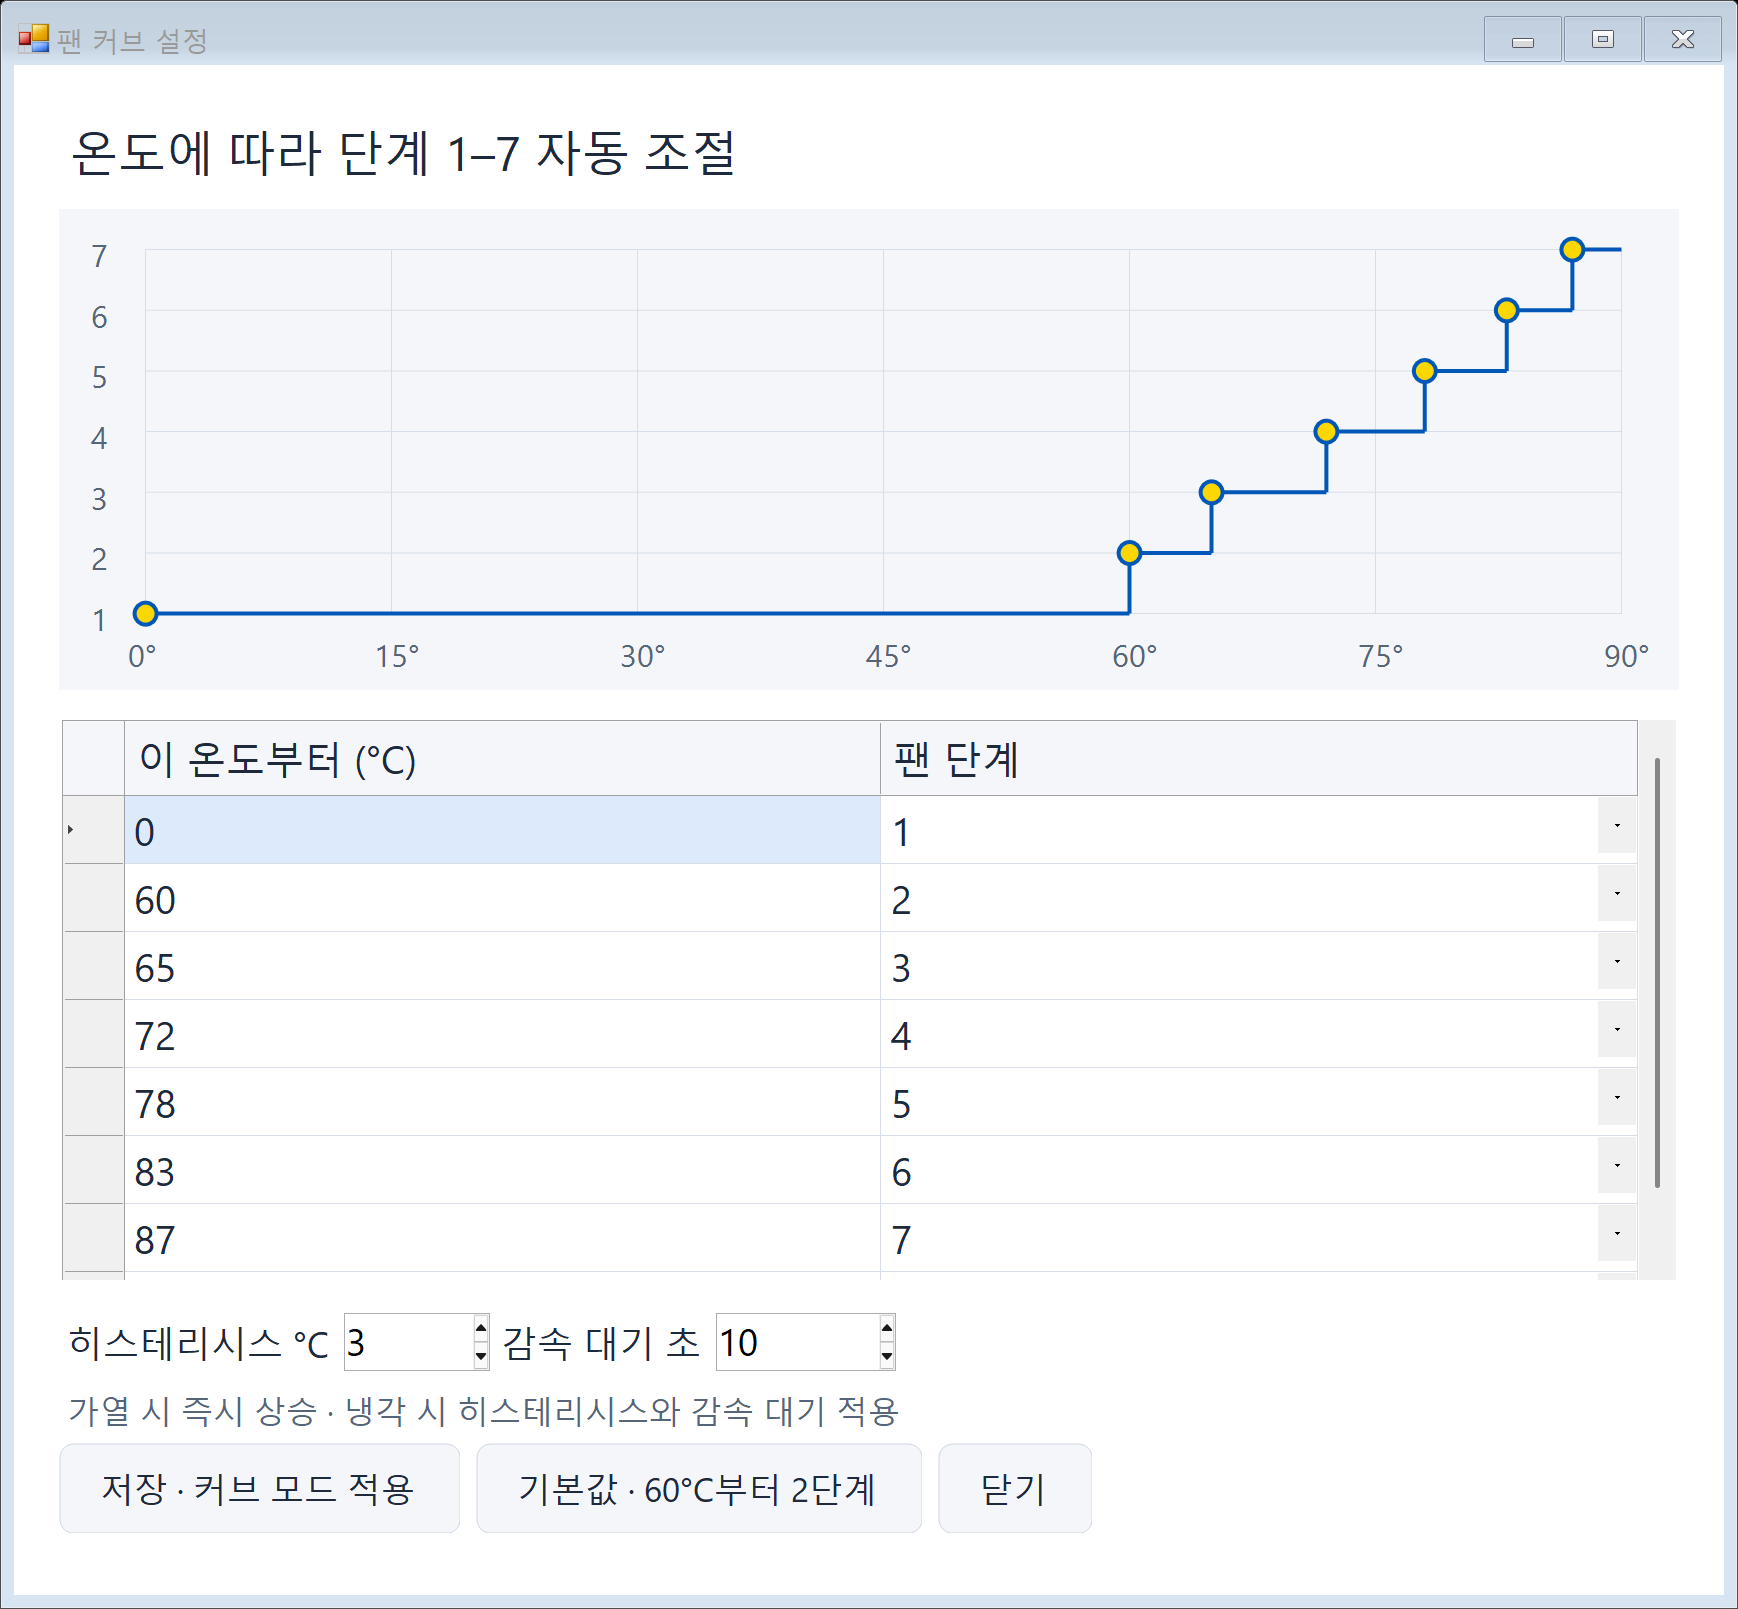
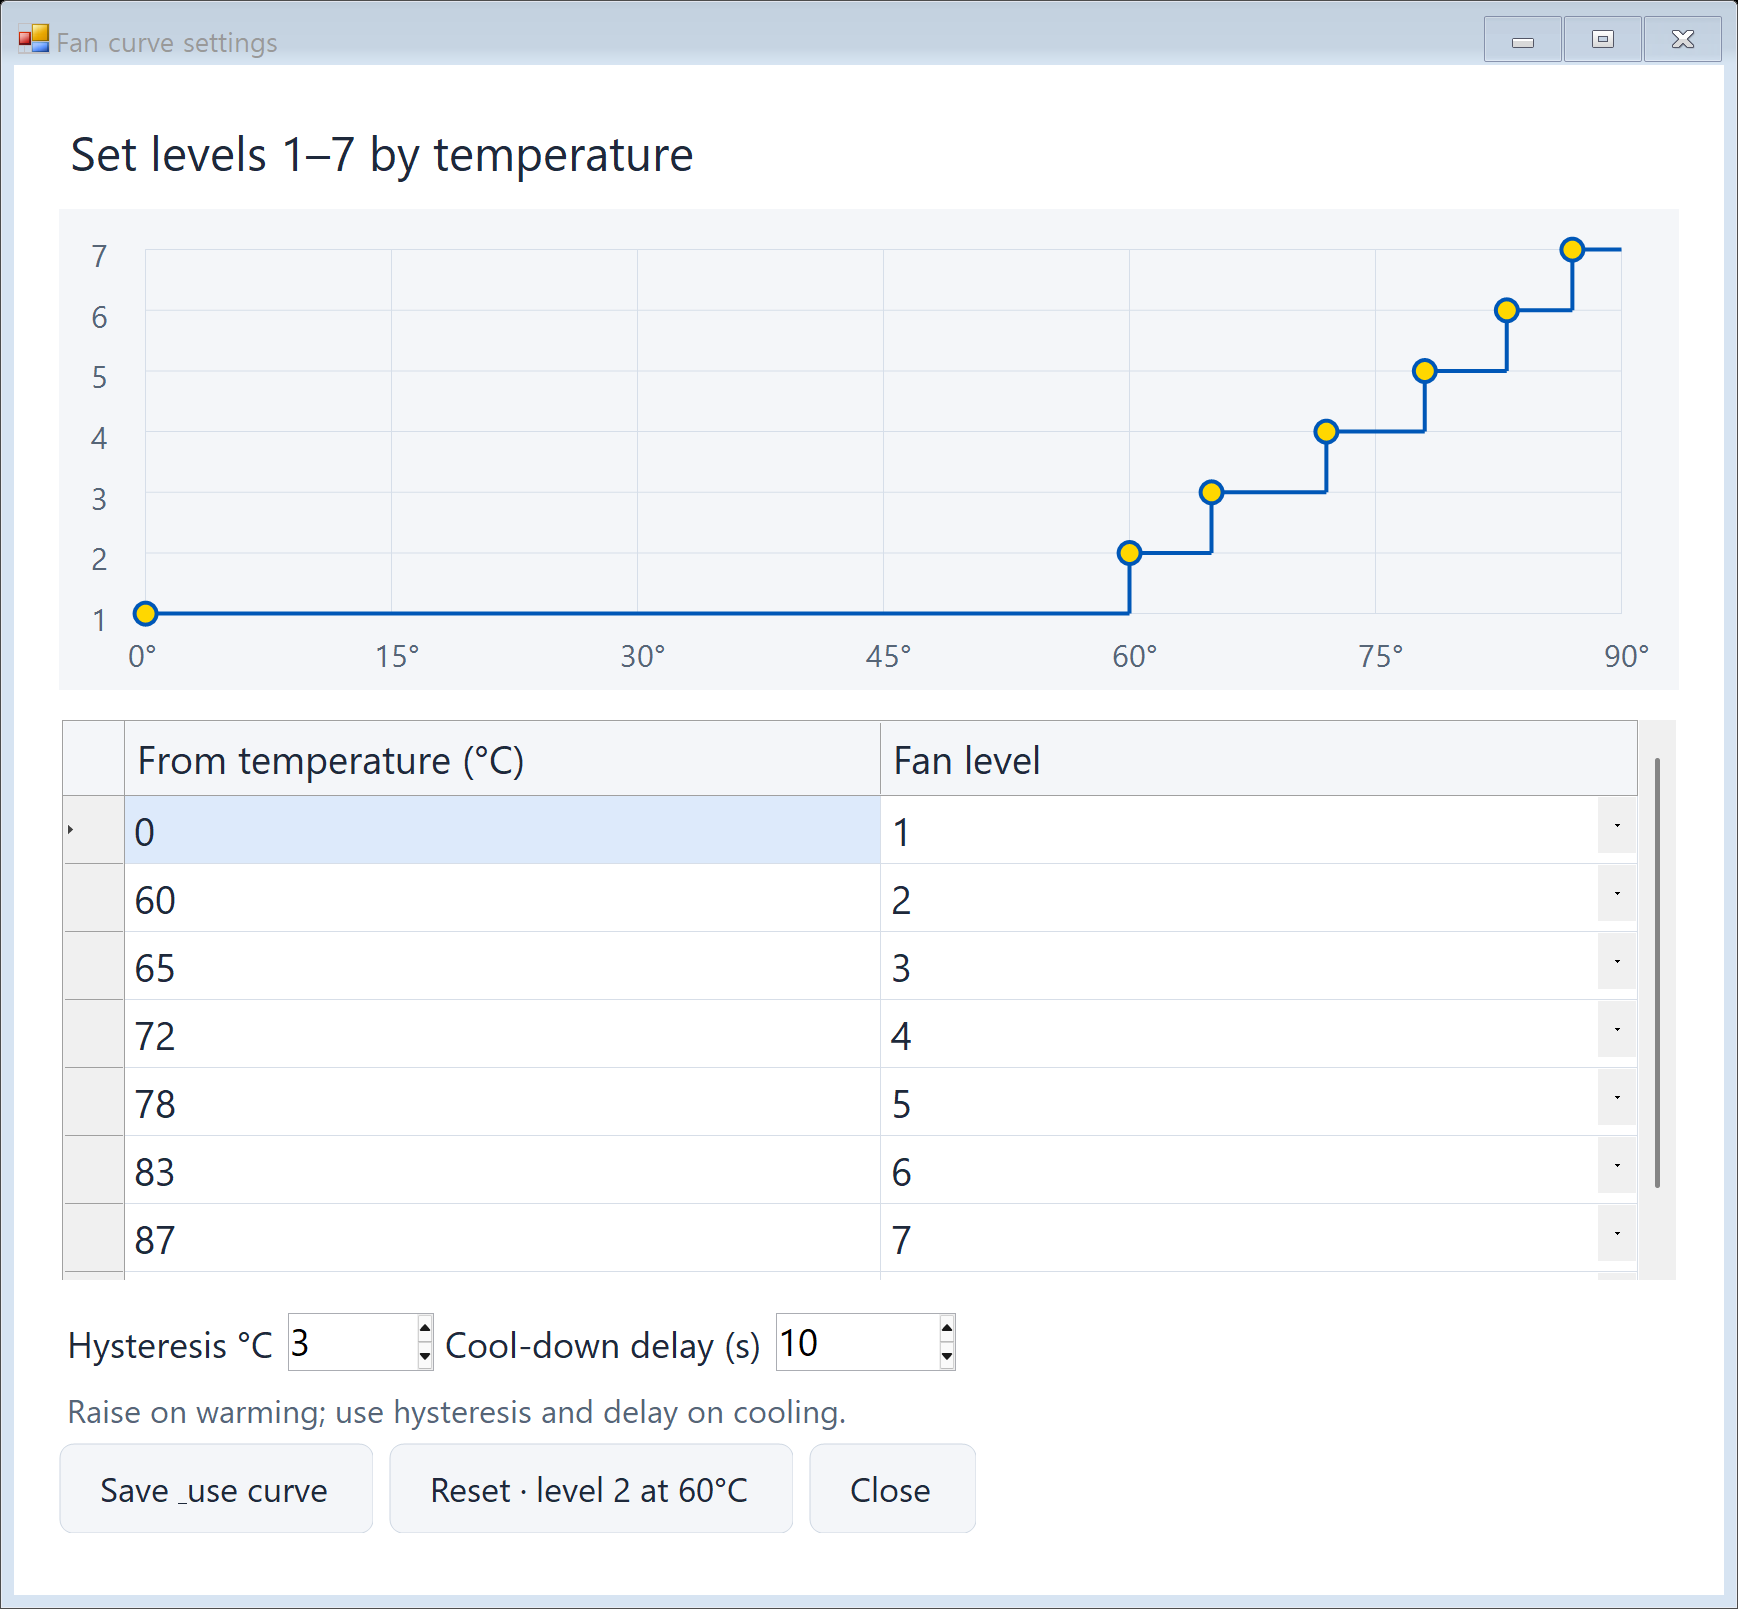
Update multilingual previews and corner validation

diff --git a/docs/VALIDATION.md b/docs/VALIDATION.md
@@ -49,3 +49,11 @@ The title bar now includes SFE16-43. The redundant dashboard heading/stripe was 
 Temperature, levels and both RPMs are now acquired together every approximately 10 seconds, and each successful sample is logged and published to the UI. Mode requests wake the worker immediately. Heartbeats continue during idle waits without EC reads; the 8-second watchdog threshold is unchanged. The 90 C thermal fallback is now evaluated at the 10-second sample cadence, rather than the previous 2-second cadence.
 
 Render checks passed for four visible STATUS lines, a single-line temperature and responsive shrinking. Fake-controller tests include an assertion that an idle controller does not poll temperature again within 2.2 seconds. A short live check after replacement recorded five fresh STATUS samples with timestamp gaps 10/10/9/10 seconds and no fallback, watchdog or critical event in that interval. This verifies coexistence of the 10-second cadence and the watchdog over that short interval; it does not establish long-term endurance or thermally stress the laptop.
+
+## Opaque corners, yellow card and six languages
+
+RoundedButton now clears an opaque ancestor surface in both OnPaintBackground and OnPaint. RoundedTable also establishes its background during OnPaint. Rendering each of ten buttons and the status card in isolation verified corner pixel ARGB FFFFFFFF, including transparent parent layouts; background-paint-only handling had failed this isolated check. This is a bitmap paint-path regression check, not a claim that every Windows compositor/DPI configuration was physically inspected.
+
+The yellow status card, uniform sky-blue/selected-blue mode buttons, matching settings action, gray log action and removed footer sentence were rendered with six UI languages. English is the default; Korean, Japanese, Simplified Chinese, Spanish and German are selectable. Main and curve-editor previews were generated for every language; German and CJK layouts were visually inspected. Input hints, ordinary curve validation messages, editor headers and tray commands are localized; raw diagnostic messages and STATUS bodies remain unchanged. Exit remains available as a muted action.
+
+49 policy, localization and fake-controller checks passed, including six complete catalog rows per key, default/fallback English and settings serialization of a chosen language. Existing four-line-log, single-line-temperature and responsive text render checks passed. UI-only paint/localization changes do not alter the existing 10-second sensor cadence or the 8-second watchdog threshold.

diff --git a/docs/ARCHITECTURE.md b/docs/ARCHITECTURE.md
@@ -33,3 +33,7 @@ Find the root cause of EC read contention and unexpected level changes; evaluate
 ## Responsive display
 
 `ResponsiveForm.cs` handles window/screen bounds and WM_DPICHANGED; fonts and spacing are fitted from a baseline layout with a debounced UI timer. This does not change EC sampling cadence. The visible log filters for STATUS only; the controller emits a concise STATUS body, while diagnostic events remain on disk. New settings default to Curve, explicit Auto paths (including smoke-test cleanup) remain Auto.
+
+`Localization.cs` provides six in-process UI catalogs (en/ko/ja/zh/es/de), with English as the default and unknown-code fallback. The selected code is stored in Settings.Language; old settings without the field get the constructor's English default. UI language changes save preferences without issuing a fan-mode request. Static control bindings, dynamic mode strings, editor headers and tray labels are refreshed together. Curve saves preserve the current UI language. Technical logs retain their existing machine-readable format.
+
+Rounded controls explicitly paint an opaque ancestor background during both background and foreground painting. Transparent container colors must never be passed directly to Graphics.Clear on the native target, and the foreground paint path must not assume a background-paint callback already ran.
